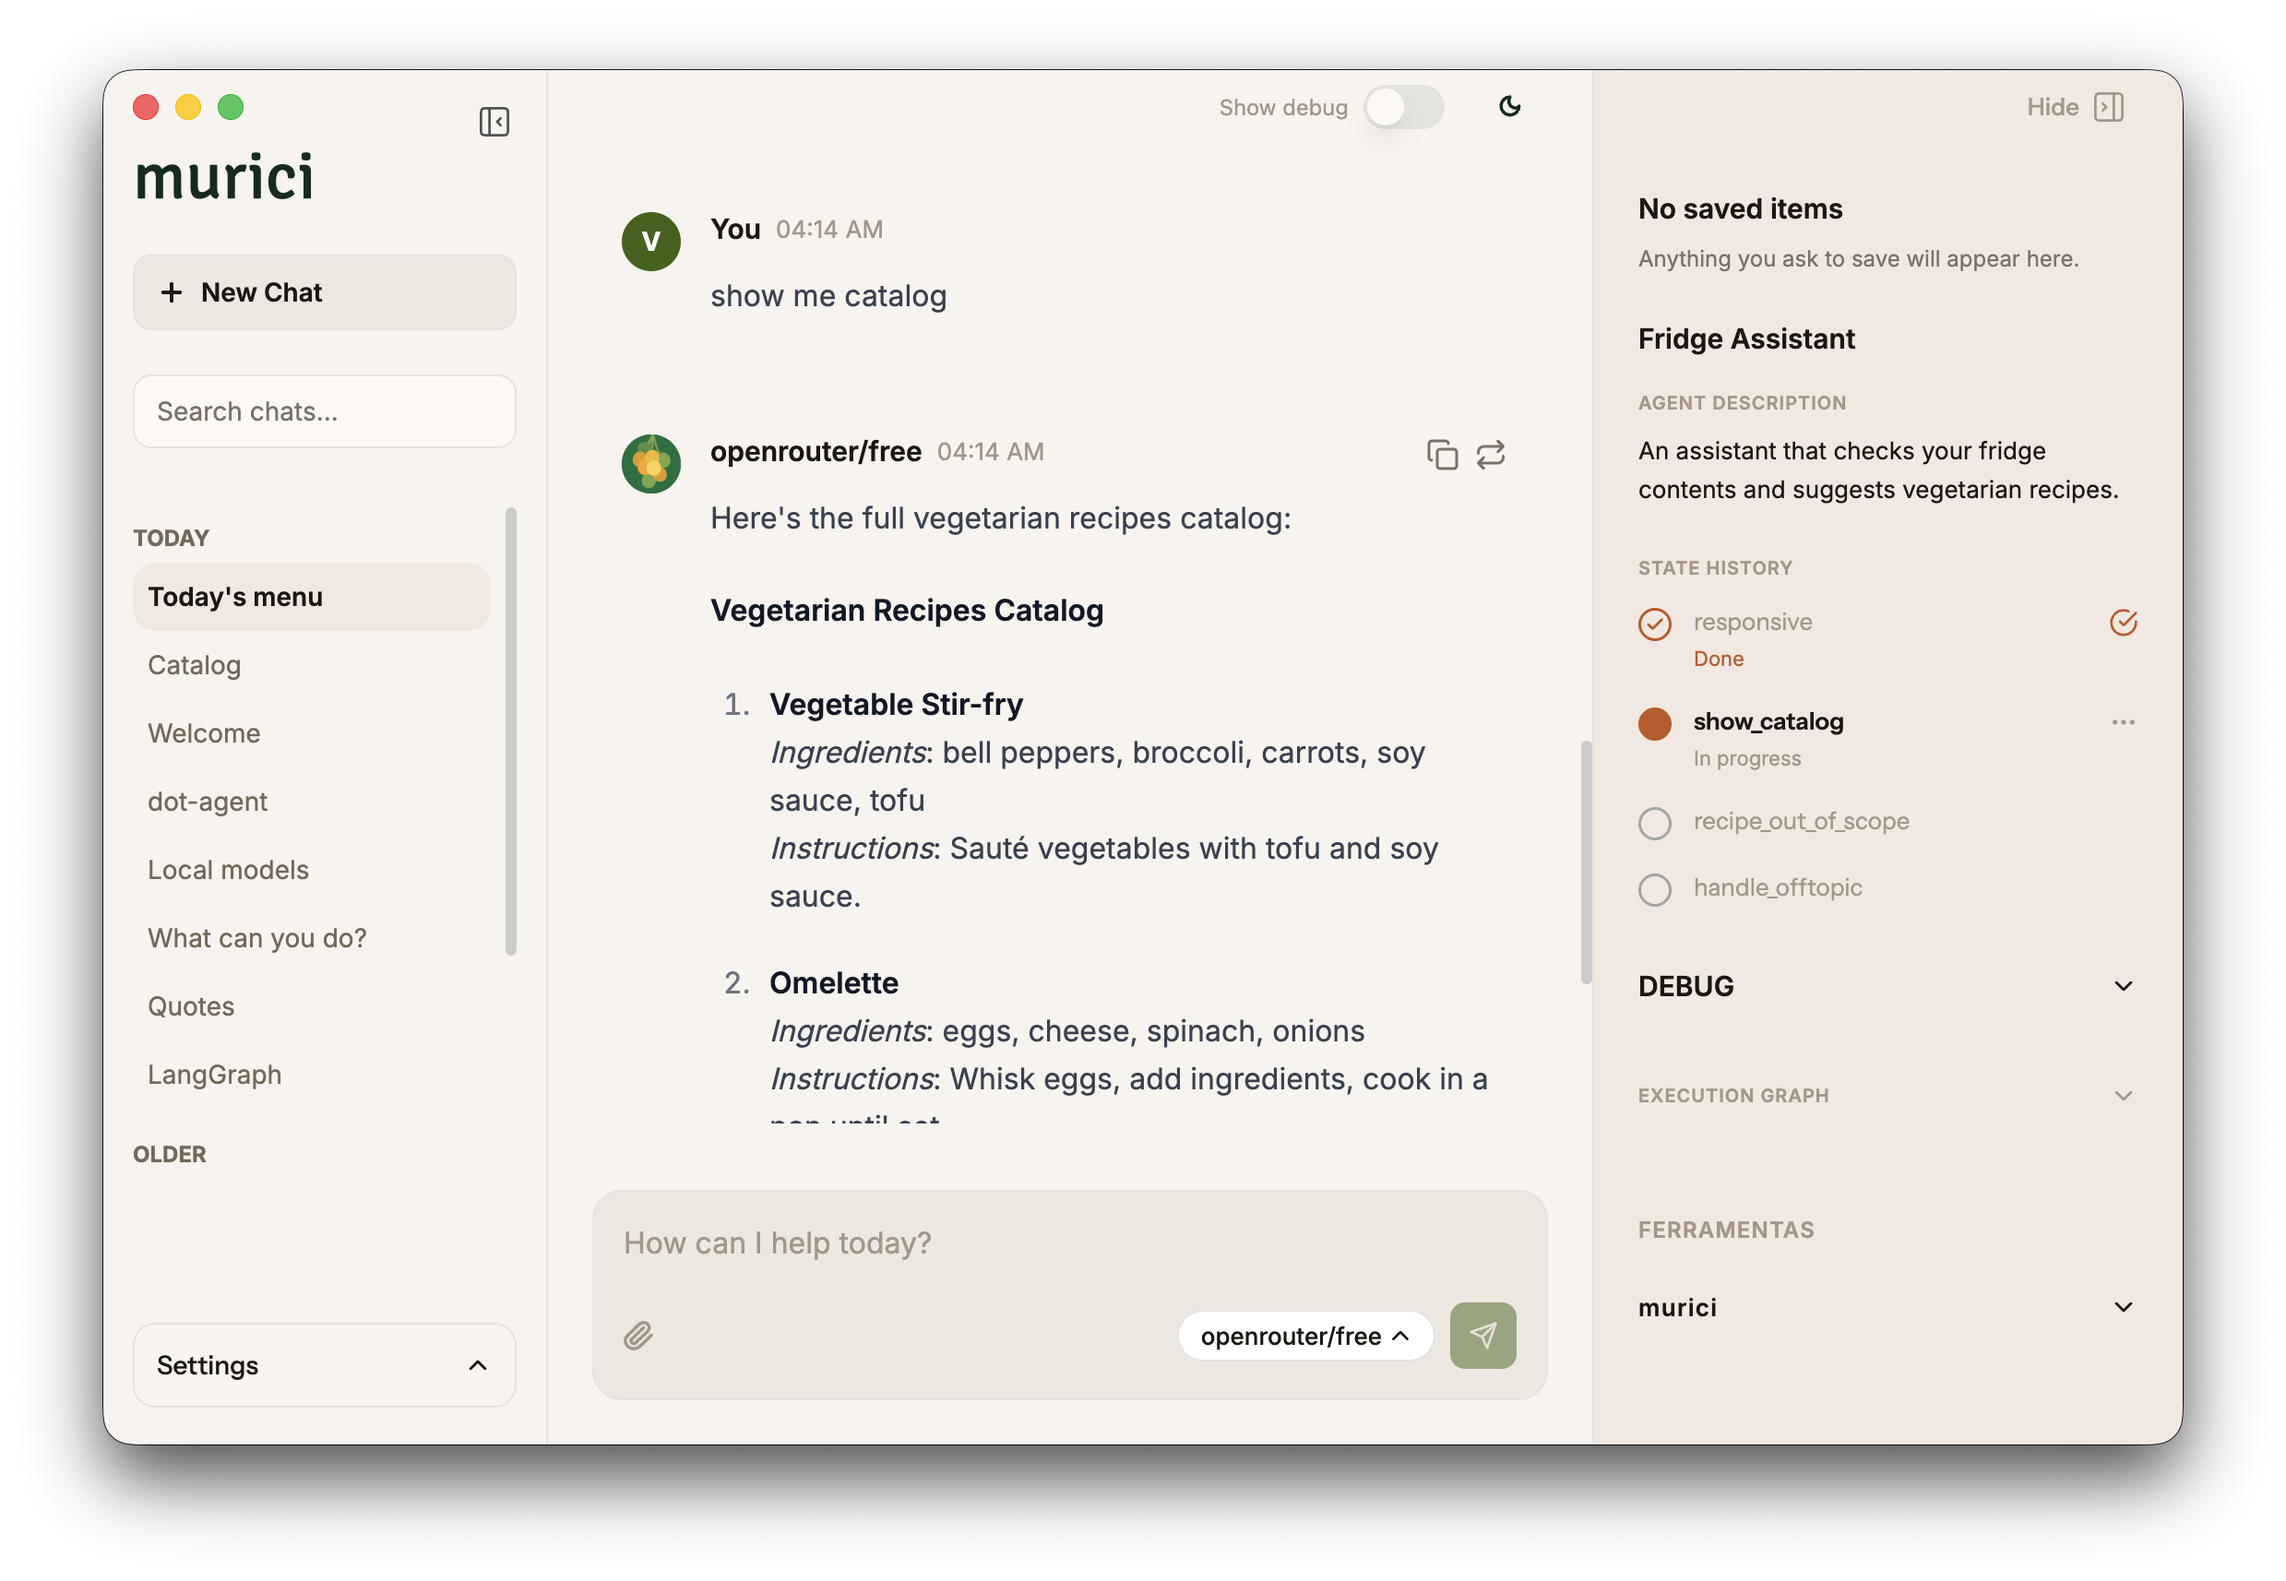
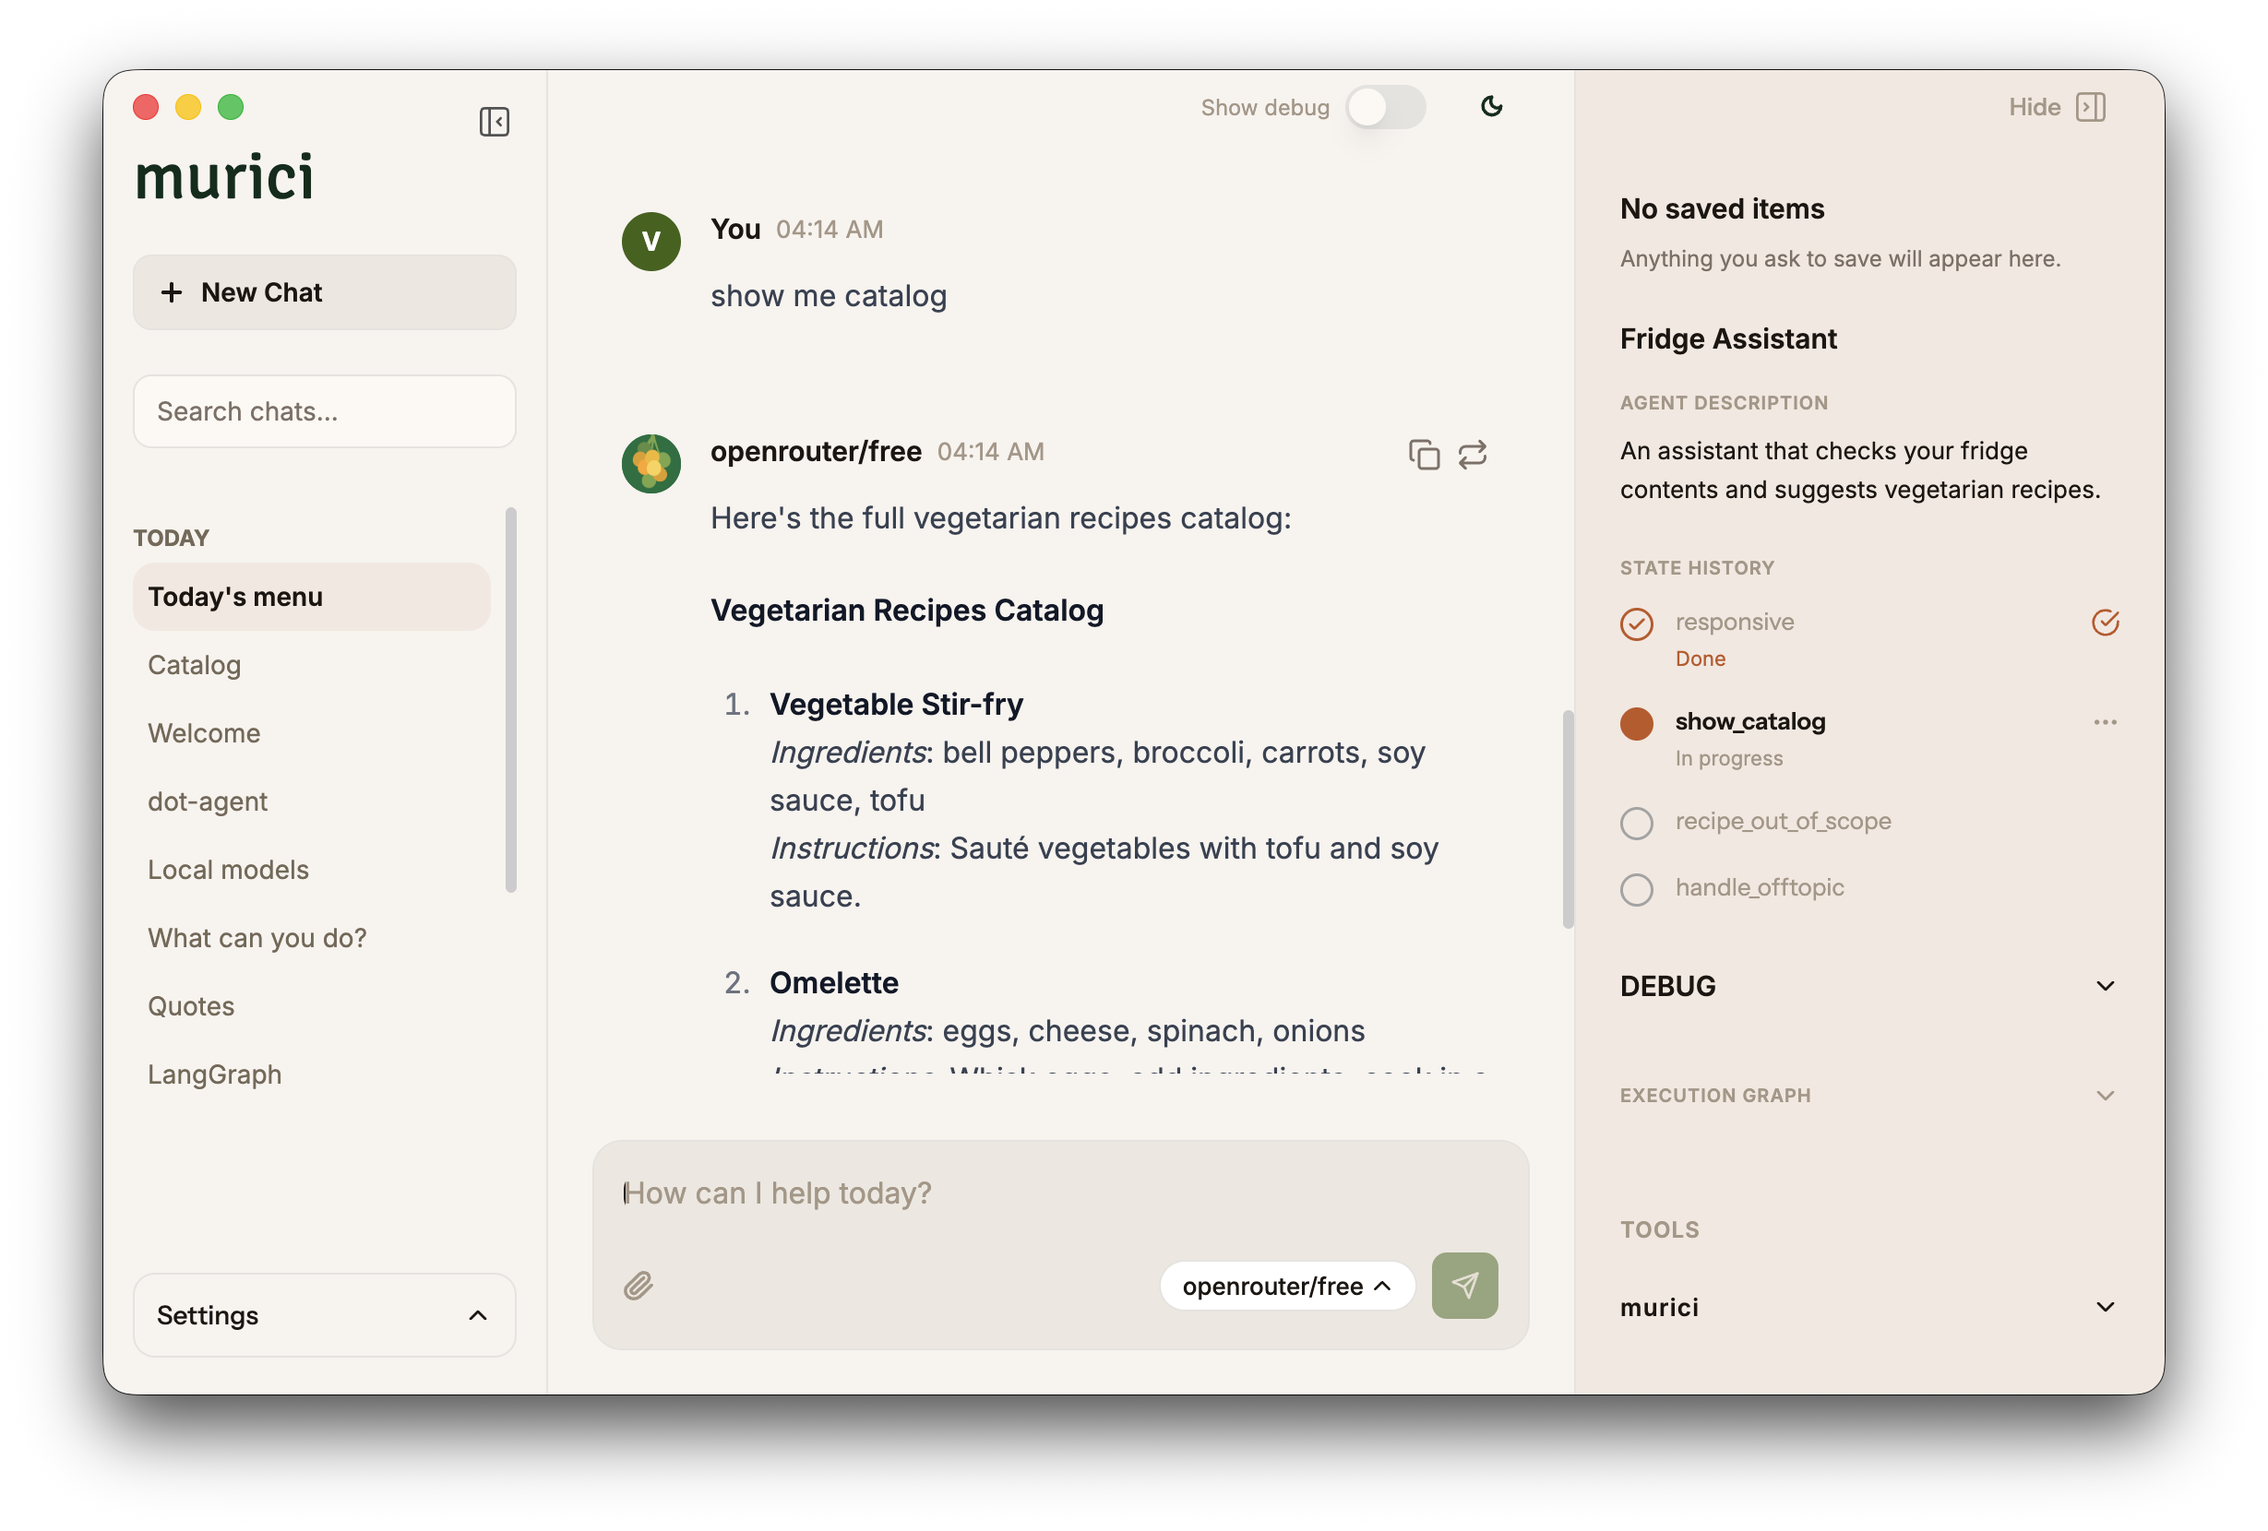
docs: lead with Murici, adopt the site intro, drop what the site owns
Murici goes first — it is the one initiative with a visual, so it earns
the space above the fold. Research and Principles are removed: neither
has anything published to link to, and the site already carries both.
The intro is now the site's own About copy, verbatim.

diff --git a/profile/README.md b/profile/README.md
@@ -2,33 +2,51 @@
 
 <p align="center">
   <b>Intelligence, brought into form.</b><br>
-  An independent research lab building the open protocols, runtimes and interfaces
-  for the era of native AI.
+  Revealing latent potential in people, systems, and technology.
 </p>
 
 <p align="center">
   <a href="https://entelekheia.ai">entelekheia.ai</a> ·
+  <a href="#murici--a-chat-ui-for-running-agents">Murici</a> ·
   <a href="#agent--an-open-standard-for-portable-agents">.agent</a> ·
-  <a href="#murici--a-chat-ui-that-runs-them">Murici</a> ·
   <a href="#vibe-ops--repositories-that-start-organized">vibe-ops</a> ·
-  <a href="#research">Research</a> ·
   <a href="mailto:hello@entelekheia.ai">hello@entelekheia.ai</a>
 </p>
 
 ---
 
-Models got capable faster than the systems around them did. An agent today is a prompt in someone's
-codebase: it cannot be handed to another runtime, its behaviour cannot be checked before it runs, and
-the only way to find out what it does is to talk to it and see.
+Entelékheia develops foundational technologies, open protocols, and next-generation interfaces designed
+for the era of native artificial intelligence.
 
-We think the missing piece is structure. Everything a machine can guarantee — which states exist, which
-transitions are legal, which capabilities may be called — should be checked before a model is ever asked
-anything. Everything only a model can infer should stay in prose, where it belongs. Draw that line
-clearly and an agent stops being an artifact of one codebase and becomes a file you can pass around.
+The lab operates at the intersection of structural systems, cognitive computing, and intuitive
+interfaces. This continuous practice guarantees that intelligent systems remain resilient, predictable,
+and aligned with human intention.
 
-That conviction shows up in three layers of work: **open specifications** that nobody has to ask
-permission to implement, **core runtimes** that execute them the same way twice, and **applied tools**
-that put both in front of a person.
+---
+
+## Murici — a chat UI for running agents
+
+<a href="https://github.com/entelekheia-ai/murici/releases"><img src="https://img.shields.io/github/v/release/entelekheia-ai/murici?label=release" alt="Latest release"></a>
+<a href="https://github.com/entelekheia-ai/murici/blob/main/license"><img src="https://img.shields.io/badge/license-Apache--2.0%20%2B%20MIT-blue.svg" alt="Apache-2.0 and MIT"></a>
+<a href="https://github.com/entelekheia-ai/murici"><img src="https://img.shields.io/badge/desktop-Electron-47848F?logo=electron&logoColor=white" alt="Electron desktop"></a>
+
+<p align="center">
+  <img src="https://github.com/entelekheia-ai/.github/raw/main/assets/murici.png" width="100%" alt="Murici running the Fridge Assistant agent: the conversation on the left, and on the right the agent's state history — responsive marked done, show_catalog in progress, and the remaining states still pending.">
+</p>
+
+A lightweight desktop and web chat UI for running `.agent` behaviours — the portable agent format
+described below. Drag a bundle onto the window and it compiles and starts. The panel on the right tracks
+the run as it happens: which states are done, which one is executing, which are still ahead, alongside
+the agent's own description and its execution graph. A conversation becomes something you watch rather
+than infer.
+
+Routing is deterministic. The model signals intent through a tool call, a WASM kernel decides the
+transition, and the interface updates from the effects it returns. Chats, models and keys live in
+IndexedDB on your own machine — there is no account and no server to sign into. Hosted providers and
+locally discovered LLM servers connect on the same footing.
+
+**[Download](https://github.com/entelekheia-ai/murici/releases/latest)** (macOS · Windows) ·
+**[Source](https://github.com/entelekheia-ai/murici)** · open source
 
 ---
 
@@ -38,6 +56,12 @@ that put both in front of a person.
 <a href="https://open-vsx.org/extension/dot-agent/vscode-dot-agent"><img src="https://img.shields.io/open-vsx/v/dot-agent/vscode-dot-agent?label=.agent%20DSL" alt=".agent DSL editor extension"></a>
 <a href="https://github.com/dot-agent-spec/platform/blob/main/LICENSE"><img src="https://img.shields.io/badge/license-Apache--2.0-blue.svg" alt="Apache-2.0"></a>
 <a href="https://dot-agent.ai"><img src="https://img.shields.io/badge/spec-dot--agent.ai-1f6feb" alt="Specification"></a>
+
+An agent today is a prompt inside somebody's codebase: it cannot be handed to another runtime, and the
+only way to learn what it does is to talk to it and find out. `.agent` draws the line differently.
+Everything a machine can guarantee — which states exist, which transitions are legal, which capabilities
+may be called — is checked before a model is ever asked anything. Everything only a model can infer stays
+in prose, where it belongs.
 
 An agent is two files. A `.description` declares the contract — what it needs, what it can do, what it
 returns. A `.behavior` declares the flow: a flat state machine where the prompt lives in `goal` and
@@ -83,31 +107,6 @@ and [Open VSX](https://open-vsx.org/extension/dot-agent/vscode-dot-agent).
 
 ---
 
-## Murici — a chat UI that runs them
-
-<a href="https://github.com/entelekheia-ai/murici/releases"><img src="https://img.shields.io/github/v/release/entelekheia-ai/murici?label=release" alt="Latest release"></a>
-<a href="https://github.com/entelekheia-ai/murici/blob/main/license"><img src="https://img.shields.io/badge/license-Apache--2.0%20%2B%20MIT-blue.svg" alt="Apache-2.0 and MIT"></a>
-<a href="https://github.com/entelekheia-ai/murici"><img src="https://img.shields.io/badge/desktop-Electron-47848F?logo=electron&logoColor=white" alt="Electron desktop"></a>
-
-<p align="center">
-  <img src="https://github.com/entelekheia-ai/.github/raw/main/assets/murici.png" width="100%" alt="Murici running the Fridge Assistant agent: the conversation on the left, and on the right the agent's state history — responsive marked done, show_catalog in progress, and the remaining states still pending.">
-</p>
-
-A lightweight desktop and web chat UI for running `.agent` behaviours. Drag a bundle onto the window and
-it compiles and starts. The panel on the right tracks the run as it happens — which states are done,
-which one is executing, which are still ahead — alongside the agent's own description and its execution
-graph. A conversation becomes something you watch rather than infer.
-
-Routing is deterministic: the model signals intent through a tool call, the WASM kernel decides the
-transition, and the UI updates from the effects it returns. Chats, models and keys live in IndexedDB on
-your own machine — there is no account and no server to sign into. It connects to hosted providers and
-discovers local LLM servers on the same footing.
-
-**[Download](https://github.com/entelekheia-ai/murici/releases/latest)** (macOS · Windows) ·
-**[Source](https://github.com/entelekheia-ai/murici)** · open source
-
----
-
 ## vibe-ops — repositories that start organized
 
 <a href="https://github.com/entelekheia-ai/vibe-ops/actions/workflows/check.yml"><img src="https://github.com/entelekheia-ai/vibe-ops/actions/workflows/check.yml/badge.svg" alt="check"></a>
@@ -127,35 +126,6 @@ It is the tooling we built because our own repositories kept drifting from their
 reads your repository and writes nothing into it, so there is no per-repo copy to maintain.
 
 **[Repository](https://github.com/entelekheia-ai/vibe-ops)** · Apache-2.0
-
----
-
-## Research
-
-The lab works at the intersection of artificial intelligence, cognitive science and foundational systems
-design. Three questions run underneath everything above:
-
-- **Cognitive orchestration** — coordinating memory, reasoning and action across intelligent systems.
-- **Agent ecosystems** — portable architectures for composing and evolving autonomous agents.
-- **Distributed knowledge** — organizing collective intelligence across human networks and AI nodes.
-
----
-
-## Principles
-
-**Clarity before complexity.** The most powerful technical ideas have an inherent simplicity; maturity
-shows up as architecture someone else can read.
-
-**Systems outlast tools.** We build structures meant to still be standing when the current generation of
-tooling is gone.
-
-**Intelligence requires structure.** Raw capability becomes coherent behaviour only inside an
-architecture that constrains it.
-
-**Technology should amplify thought.** Software that merges into the work, rather than demanding
-attention for itself.
-
-**Long-term vision over trend cycles.** Technical conviction over the hype window.
 
 ---
 
